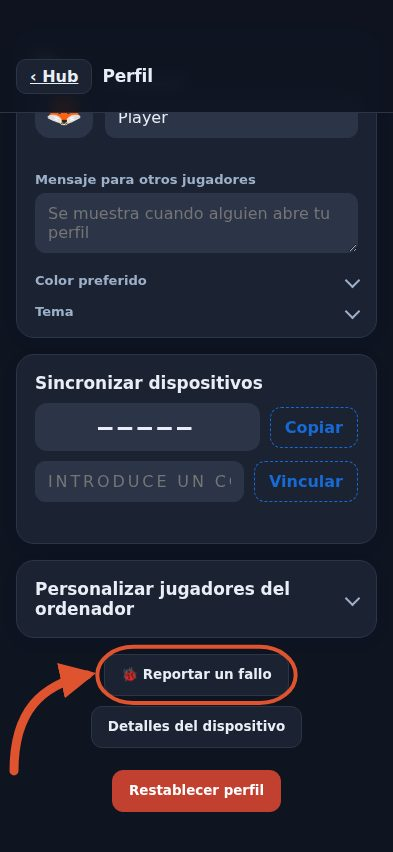
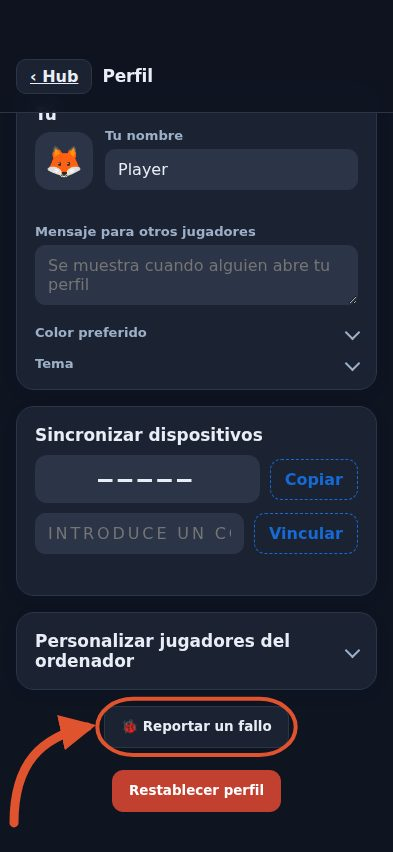
Retire the Device details button; record install state on every sync
RETIRED, not deleted. js/device-report.js stays and is still load-bearing -
gatherDeviceReport() is layer 2 of every bug report, so the payload that
button used to send is now sent by every report anyway. What went is the
profile page's button, its modal, its CSS and its nine strings.
uploadDeviceReport() is left in place with no caller (same status as
leaderboard-rank.js's dormant rating exports - do not delete as "unused"),
deviceReports/ in Firebase is untouched, and read-device-reports.mjs still
reads the archive.

The announcement's profile screenshot showed the button being removed, so
all eight shots were re-taken.

INSTALL STATE. js/install-state.js is a small dependency-free probe
answering "installed app or browser tab", now mirrored to
players/<id>/device by the existing stats sync and used by bug reports too -
one answer, never two. It cannot be a helper inside either of those files:
device-report.js already imports stats-net, so stats-net importing
bug-report would be circular.

It checks BOTH `display-mode: standalone` and navigator.standalone, because
iOS only reliably reports the second - checking one would file half the
family's iPhones as "browser" and send Matt chasing a problem that isn't
there. a2hsDismissed rides along: it separates someone who was asked to
install and said no (Ana) from someone never asked.

node read-install-state.mjs lists it, browser tabs first. It is NOT
retroactive and says so on every run: a device reads "(not seen yet)" until
[…]

diff --git a/js/CLAUDE.md b/js/CLAUDE.md
@@ -97,6 +97,7 @@ entirely — keep it current when a module is added, split, or merged.
 | `js/name-gate.js` | (2026-07-31) the ONE "choose a name" gate, called by the hub AND every standalone game page (`await requireName()` before `init()`); `js/name-gate-auto.js` is the deferred-module form for the two classic-script apps. Undismissable by design — see "Nameless devices" below for why the app is not playable without a name |
 | `js/a2hs.js` | add-to-home-screen bottom sheet; polls hub DOM state to avoid overlay collisions |
 | `js/device-report.js` | (2026-07-22) the profile page's "Device details" diagnostic: `gatherDeviceReport()` reads every localStorage key this app has ever written (both by name - profile, stats, every game's own settings/saves/legacy stats - and exhaustively, a raw `{key, bytes}` dump of literally everything in `localStorage` so nothing is invisible to the page) plus two Firebase reads (`usernames/<name>` and `players/<deviceId>`) that catch a mixed-up profile immediately (registered owner disagrees with this device, or local/remote stats disagree). `uploadDeviceReport()` pushes the whole thing to its own new node, `deviceReports/<deviceId>/<pushId>` - see "The shared profile" for why this exists and why it deliberately excludes `js/challenge/` state |
+| `js/install-state.js` | (2026-08-11) installed-app vs browser tab: `installState()` -> `{installed, mode, browser, device, a2hsDismissed}`. Dependency-free on purpose - `stats-net.js` and `bug-report.js` both need it and must not import each other (device-report.js already imports stats-net, so that graph would go circular). Checks BOTH `display-mode: standalone` and `navigator.standalone`, or half the family's iPhones file as "browser" |
 | `js/bug-report.js` | (2026-08-11) the DATA half of Report a bug: `gatherEnvironment()` (device/browser/install-state/screen/network/storage/SW/GPU/recent-errors) plus the whole `gatherDeviceReport()` payload, `prepareScreenshot()`'s downscale-until-it-fits, the `bugReports/`+`bugReportShots/` write with a verifying re-read, and the offline outbox (`gamehub.bugreports.pending.v1`) the hub drains on load/reconnect/return-to-launcher. See "Report a bug" below |
 | `js/bug-report-ui.js` | (2026-08-11) the SCREEN half: the player's form and Matt's inbox (`isAdmin` only, unread count in `gamehub.bugadmin.v1`). **The first shipped consumer of `css/ui.css`'s `.gh-*` primitives** — a new surface is the cheapest place to adopt that layer |
 | `js/error-log.js` | (2026-08-11) last-20 ring buffer of uncaught errors, unhandled rejections and failed resource loads (`gamehub.errorlog.v1`), installed by `hub.js` at LOAD (not in the constructor) so it catches a game module failing to import. Read only by `bug-report.js` |
@@ -878,6 +879,37 @@ pending note shown; repeated in dark mode and in Spanish). **No report has ever 
 real Firebase from this branch** — the same caveat every MP consumer above carries.
 
 ---
+
+## Who is on the installed app, and who is in a browser tab (2026-08-11)
+
+Matt: *"I found out 2 days ago that Ana never did that. She never saved it to her Home Screen...
+She just dismissed the notice early on."* Every game here is built for the installed route, and
+nothing anywhere recorded which route a person was actually on.
+
+- **`js/stats-net.js`'s `syncMyStats()` now mirrors `installState()` to `players/<id>/device`.** It
+  rides the EXISTING mirror rather than getting its own write, so every device answers on the beats
+  it already syncs on (load, tab-hide, return-to-launcher, reconnect) instead of only the ones that
+  file a bug report. Additive: a new child node, read by no gameplay or stats path, incapable of
+  moving a counter.
+- **`node read-install-state.mjs`** lists it, browser tabs first.
+- **It is NOT retroactive, and the tool says so.** A device shows `(not seen yet)` until it next
+  opens the hub on a build that has this. That is missing data, not a browser tab, and the two must
+  never be reported as the same thing. There is no record of how anyone played before this shipped.
+- **`a2hsDismissed` is in the object on purpose**: it distinguishes someone who was asked to install
+  and said no (Ana's case) from someone who was never asked.
+
+## The Device details button, retired (2026-08-11)
+
+Matt: *"That was built specifically for a one time use. Now that we have the report a bug feature
+it's redundant and obsolete."* Retired, not deleted:
+
+- **`js/device-report.js` stays and is still load-bearing** - `gatherDeviceReport()` is layer 2 of
+  every bug report. Only the profile page's BUTTON, its modal and its strings are gone.
+- **`uploadDeviceReport()` is now dormant** with no caller. Left in place deliberately (same status
+  as `leaderboard-rank.js`'s rating exports): do not delete it as "unused".
+- **`deviceReports/` in Firebase is untouched**, and `read-device-reports.mjs` still reads it. The
+  archive of what was already collected stays exactly where it is.
+- The announcement's profile screenshot had to be re-shot, since it showed the button being removed.
 
 ## Hiding test/debug accounts from the leaderboard (2026-07-29, widened 2026-07-31)
 

diff --git a/CLAUDE.md b/CLAUDE.md
@@ -188,7 +188,8 @@ surface — lives in `js/CLAUDE.md`, auto-loaded whenever a session works on the
 | `js/arcade-scores.js` | shared high-score + unlock layer for the arcade-cabinet games (Skeeball, Pinball): per-board bests, date-keyed daily bests, unlocks, app-wide records |
 | `js/net.js` | multiplayer room layer (`rooms/<CODE>`) used by Chinchón, Escoba, Tic Tac Toe, Mancala, Filler, Dots and Boxes, Pool, Boggle, Yahtzee and Battleship |
 | `js/a2hs.js` | add-to-home-screen bottom sheet |
-| `js/device-report.js` | the profile page's "Device details" diagnostic |
+| `js/device-report.js` | the identity/storage dump. Its profile-page button was RETIRED 2026-08-11 (Report a bug supersedes it and sends the same payload); `gatherDeviceReport()` is still load-bearing, called by every bug report |
+| `js/install-state.js` | (2026-08-11) installed-app vs browser tab, in one small object. Shared by `stats-net.js` (mirrors it to `players/<id>/device` every sync) and `bug-report.js` - one answer, never two |
 | `js/bug-report.js` | (2026-08-11) "Report a bug": the device/browser/PWA/network/SW picture plus the whole Device Details payload, written to `bugReports/` (screenshots to `bugReportShots/`), with an offline outbox that retries itself |
 | `js/bug-report-ui.js` | the report form + Matt's inbox. The repo's FIRST consumer of `css/ui.css`'s `.gh-*` primitives |
 | `js/error-log.js` | ring buffer of the last 20 uncaught JS errors (`gamehub.errorlog.v1`), installed by `hub.js` at load so a report carries what actually threw |
@@ -224,6 +225,7 @@ surface — lives in `js/CLAUDE.md`, auto-loaded whenever a session works on the
 | `test-visual.mjs` | (2026-08-08) the only suite that LOOKS at a game. Drives it in a real Chromium at 393x852 in light/dark/reduced-motion and fails on: nothing painted, the body scrolling sideways, a JS error on mount, an animation too brief to follow (`MOTION` probes), or **a game that cannot actually be PLAYED** (`PLAY` probes drive the real UI with real touch to a real outcome; every run prints which games no probe has ever played), or **a game that does not FIT one screen** (`fit` checks both hosts - standalone AND mounted in the hub's real chrome - at a tall and a short phone height; the hub adds ~138px of chrome an immersive game must not ignore).  Writes a contact sheet to `.visual-out/` - **open it.** **Checks only what CHANGED** (`node test-visual.mjs`), or named games (`... escoba`), or everything (`... --all`); a shared-code change (`js/`, `css/`, `index.html`, `sw.js`) RECOMMENDS a full sweep but never runs one - **always ask Matt before testing all games** (his rule, 2026-08-08). SKIPs without playwright-core/Chromium. Written after Battleship's cannon took four rounds of Matt's time: **`VISUAL-PROCESS.md` and `reference/` are the process it belongs to, and a session doing visual work must read them first.** |
 | `run-all-tests.mjs` | runs every node suite above plus the per-game engine tests, exit-code aggregated. All green expected. Run before every deploy. |
 | `test-bug-report.mjs` | (2026-08-11) headless tests for the pure halves of Report a bug: the screenshot budget, the description clamp, the inbox order and unread count (with real epoch timestamps - a `\| 0` on one scrambled both in the first draft), and the announcement's show-once/expire-by-itself decision, including the shipped announcement's own dates and EN/ES completeness. The DOM and Firebase halves are NOT covered, and the suite header says so. |
+| `read-install-state.mjs` | (2026-08-11) Matt-only: who is on the installed app and who is still in a browser tab, browser tabs first, from `players/<id>/device`. Only shows a device once it has opened the hub since this shipped - "(not seen yet)" is missing data, not a browser tab, and nothing here is retroactive |
 | `read-bug-reports.mjs` | (2026-08-11) Matt-only, the terminal view of the in-app inbox: lists `bugReports/` newest first, prints one in full, and is the only way to get the screenshots onto disk - `node read-bug-reports.mjs [--open] [<id> [--shots [dir]]] [--json]` |
 | `read-device-reports.mjs` | (2026-07-22) Matt-only: fetches "Device details" reports (see `js/device-report.js`) from `deviceReports/` via the plain RTDB REST API (anonymous sign-in via the Identity Toolkit REST endpoint, no SDK/dependency) - `node read-device-reports.mjs [deviceId] [--raw]` |
 | `backups/rtdb-backup.mjs` | (2026-07-23) **Run this before ANY script that writes to Firebase, any rules change, any schema change.** Timestamped full-DB snapshot to `backups/rtdb-<ISO>.json` via the same no-dependency REST pattern; `node backups/rtdb-backup.mjs [path]`. Also exports `signInAnonymously`/`readPath`/`totalPlays` for other tools. Restoring is deliberately NOT automated - a restore is a destructive write and must be hand-driven. **The snapshots are gitignored** (`backups/*.json`): this is a public repo and they hold every player's real name, code and stats. |
